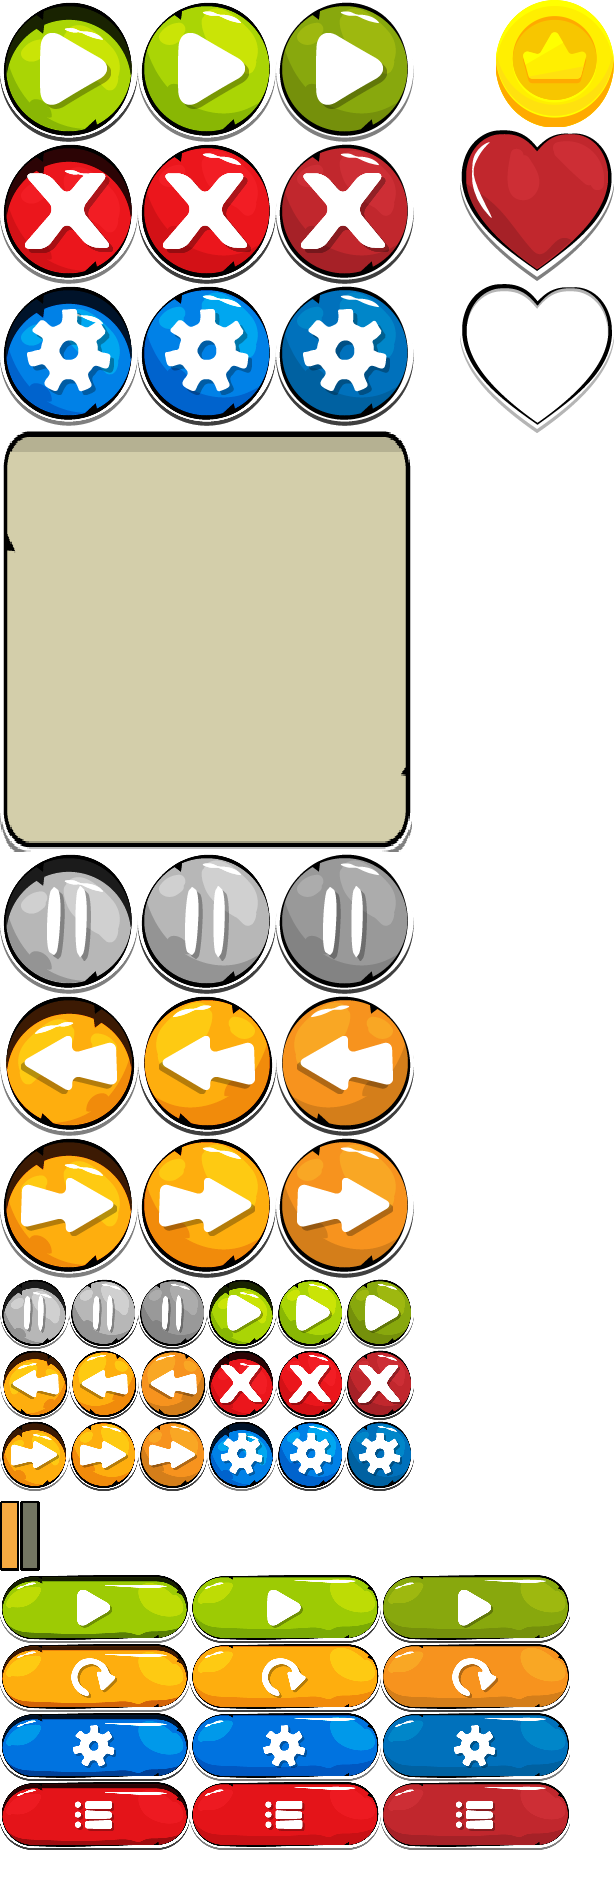
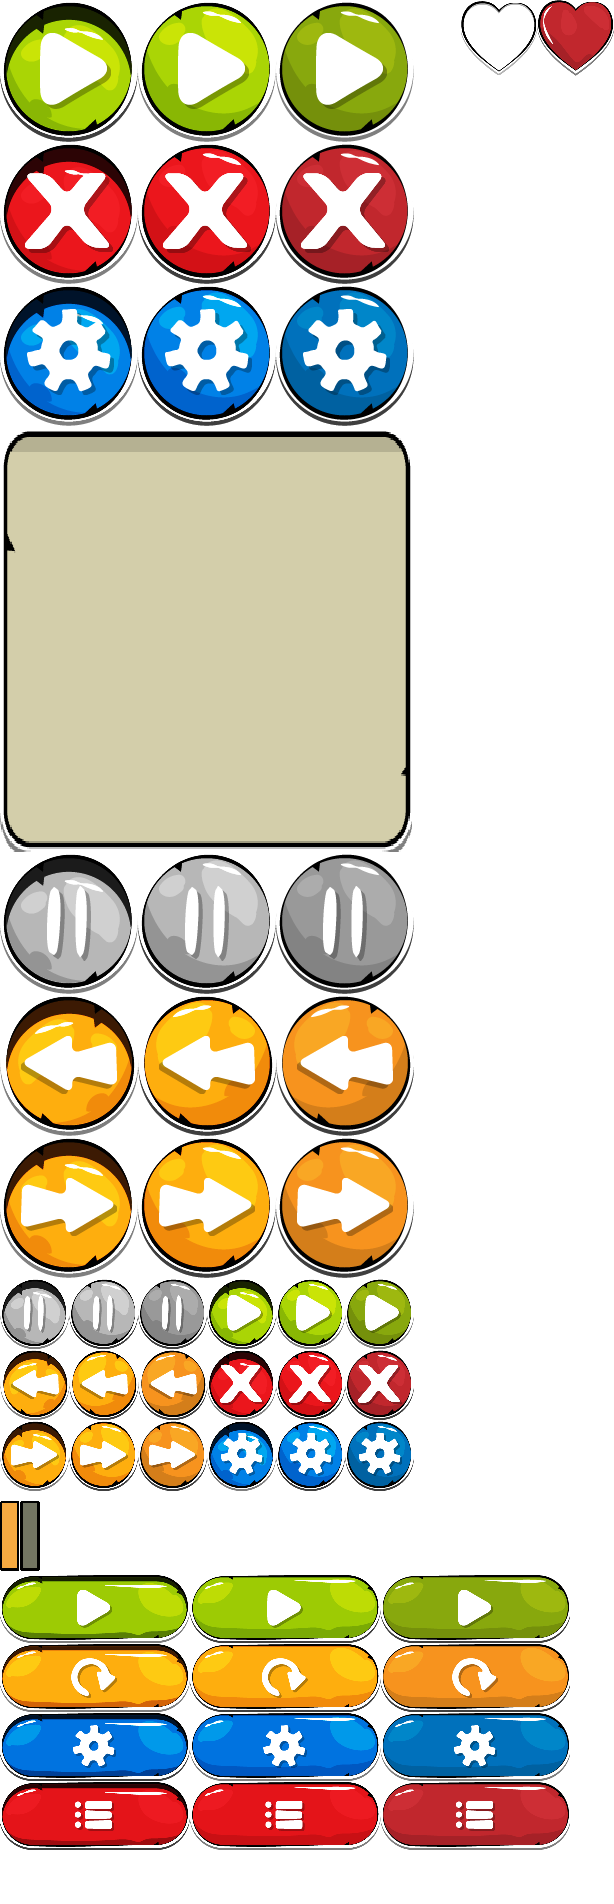
Add life and function to print hearts

diff --git a/Motor2D/j1FadeToBlack.cpp b/Motor2D/j1FadeToBlack.cpp
@@ -59,12 +59,12 @@ bool j1FadeToBlack::Update(float dt)
 				App->pathfinding->SetMap(w, h, data);
 				RELEASE_ARRAY(data);
 				App->map->CreateEnemies();
-				//App->gui->DeleteUIElements();
+				
 			}
 
+			//Never enter
 			if (App->entity_m->player != nullptr) {
 				App->entity_m->player->Respawn();
-
 				if (App->scene->level == level_1)
 				{
 					App->entity_m->player->needRespawn1 = true;
@@ -74,6 +74,7 @@ bool j1FadeToBlack::Update(float dt)
 					App->entity_m->player->needRespawn2 = true;
 				}
 				App->entity_m->player->animation = &App->entity_m->player->idleRight;
+				
 			}
 		}
 	} break;
@@ -83,7 +84,9 @@ bool j1FadeToBlack::Update(float dt)
 		normalized = 1.0f - normalized;
 
 		if (now >= total_time)
+		{
 			current_step = fade_step::none;
+		}
 	} break;
 	}
 

diff --git a/Motor2D/mCollision.cpp b/Motor2D/mCollision.cpp
@@ -305,6 +305,7 @@ bool ModuleCollision::CollisionToWorld(Collider* player, bool* movement)
 				if ((leftUpPlayer == dead || rightUpPlayer == dead || leftDownPlayer == dead || rightDownPlayer == dead) && player->type == COLLIDER_PLAYER && App->entity_m->player->death == false)
 				{
 					App->entity_m->player->death = true;
+					App->entity_m->player->life--;
 				}
 				else if (player->type == COLLIDER_ENEMY || player->type == COLLIDER_WALKENEMY)
 				{

diff --git a/Motor2D/j1Scene.cpp b/Motor2D/j1Scene.cpp
@@ -375,3 +375,13 @@ void j1Scene::DeletePauseMenu()
 	pause_settingsButton->toDelete = true;
 	pause_returnButton->toDelete = true;
 }
+
+void j1Scene::SetLife(uint life)
+{
+	//full life
+	for (int i = 0; i < life; i++)
+	{
+		App->gui->CreateImage({ 76*i,50 }, { 537,0,76,75 }, App->gui->GetAtlas(), this, true);
+	}
+
+}

diff --git a/Motor2D/j1Scene.h b/Motor2D/j1Scene.h
@@ -53,6 +53,8 @@ public:
 	void DeleteMainMenuSettings();
 	void CreatePauseMenu();
 	void DeletePauseMenu();
+
+	void SetLife(uint);
 private:
 	p2SString map;
 	iPoint mouseCoordenates;

diff --git a/Motor2D/mPlayer.h b/Motor2D/mPlayer.h
@@ -69,7 +69,7 @@ public:
 	Collider* attack_collider;
 	int now = 0;
 	uint score = 0;
-	
+	uint life = 3;
 };
 
 #endif
